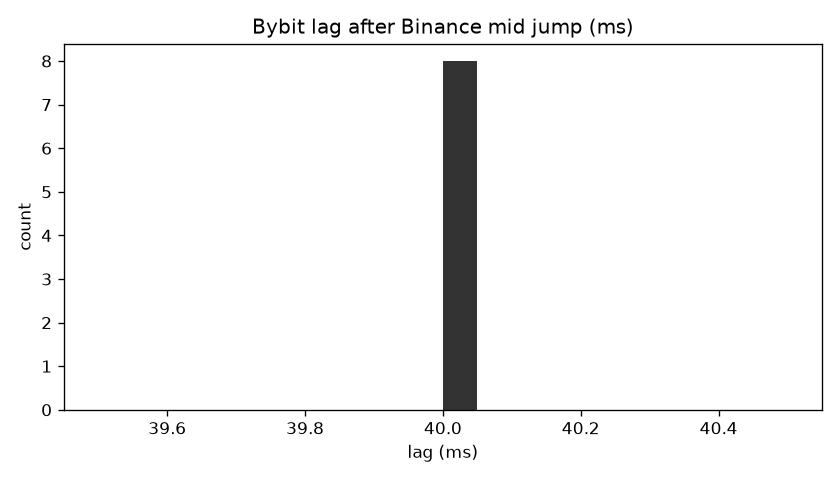
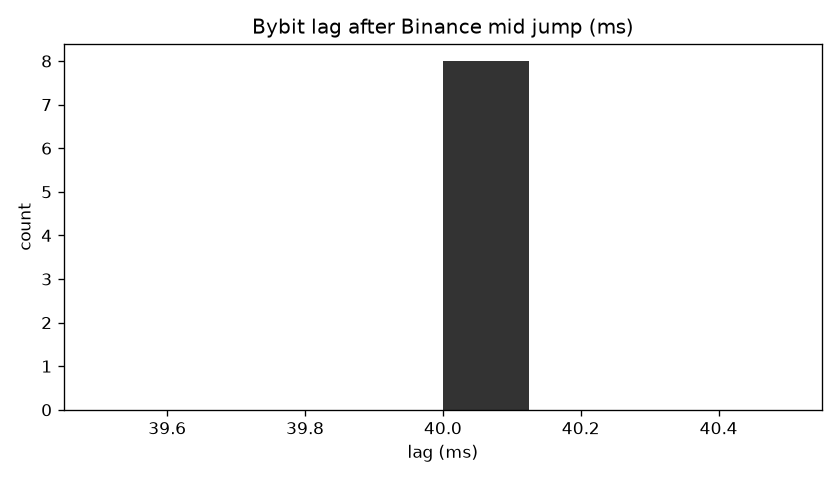
feat: drive research and execution from YAML and print fee-aware PnL
CLIs take --path so a live tape can reuse the same code as the fixture. Hedge fills use bid/ask, not mid.

Changed region(s): [[0.5571, 0.125, 0.65, 0.875]]

diff --git a/cel/execution/algo.py b/cel/execution/algo.py
@@ -41,6 +41,7 @@ class AlgoConfig:
     max_imbalance: float = 0.01
     hedge_timeout_ms: int = 200
     taker_fee_bps: float = 5.0
+    hedge_fee_bps: float = 5.0
 
 
 @dataclass
@@ -72,7 +73,7 @@ def run_algo(events: list[Event], cfg: AlgoConfig) -> AlgoState:
     for tick in lead[1:]:
         move = tick.mid - prev.mid
         prev = tick
-        _maybe_timeout(state, follow, tick.exchange_ts, cfg)
+        _maybe_timeout(state, lead, follow, tick.exchange_ts, cfg)
         if state.killed:
             break
         if abs(move) < cfg.signal_move or state.pending is not None:
@@ -85,11 +86,12 @@ def run_algo(events: list[Event], cfg: AlgoConfig) -> AlgoState:
         side = Side.BUY if buy_follower else Side.SELL
         px = book.ask if buy_follower else book.bid
         _fill(state, book.exchange_ts, "bybit", side, px, cfg.size, "initiate")
-        state.pending = Leg("binance", Side.SELL if buy_follower else Side.BUY, tick.mid, cfg.size, tick.exchange_ts)
+        hedge_side = Side.SELL if buy_follower else Side.BUY
+        state.pending = Leg("binance", hedge_side, _aggressive_px(tick, hedge_side), cfg.size, tick.exchange_ts)
         state.pending_since = book.exchange_ts
         while f_i < len(follow) and follow[f_i].exchange_ts < decision_ts:
             f_i += 1
-    _maybe_timeout(state, follow, lead[-1].exchange_ts + cfg.hedge_timeout_ms + 1, cfg)
+    _maybe_timeout(state, lead, follow, lead[-1].exchange_ts + cfg.hedge_timeout_ms + 1, cfg)
     return state
 
 
@@ -97,6 +99,10 @@ def _fill(state: AlgoState, ts: int, venue: str, side: Side, px: float, sz: floa
     signed = sz if side is Side.BUY else -sz
     state.inventory[venue] = state.inventory.get(venue, 0.0) + signed
     state.fills.append(Fill(ts, venue, side, px, sz, reason))
+
+
+def _aggressive_px(book: MidTick, side: Side) -> float:
+    return book.ask if side is Side.BUY else book.bid
 
 
 def _book_at(series: list[MidTick], ts: int) -> MidTick | None:
@@ -108,31 +114,53 @@ def _book_at(series: list[MidTick], ts: int) -> MidTick | None:
     return last
 
 
-def _maybe_timeout(state: AlgoState, follow: list[MidTick], now: int, cfg: AlgoConfig) -> None:
+def _maybe_timeout(
+    state: AlgoState,
+    lead: list[MidTick],
+    follow: list[MidTick],
+    now: int,
+    cfg: AlgoConfig,
+) -> None:
     if state.pending is None or state.pending_since is None:
         return
     if now - state.pending_since < cfg.hedge_timeout_ms:
-        # Hedge on Binance using last known leader mid as a fill proxy (tape has no
-        # Binance trades required). This is a research fill, not a queue model.
-        if now >= state.pending_since:
-            _fill(
-                state,
-                now,
-                state.pending.venue,
-                state.pending.side,
-                state.pending.px,
-                state.pending.sz,
-                "hedge",
-            )
-            state.pending = None
-            state.pending_since = None
+        hedge_book = _book_at(lead, now)
+        px = _aggressive_px(hedge_book, state.pending.side) if hedge_book is not None else state.pending.px
+        _fill(
+            state,
+            now,
+            state.pending.venue,
+            state.pending.side,
+            px,
+            state.pending.sz,
+            "hedge",
+        )
+        state.pending = None
+        state.pending_since = None
         return
     book = _book_at(follow, now)
     if book is not None and abs(state.inventory.get("bybit", 0.0)) > 1e-12:
-        # flatten leftover on follower
         leftover = state.inventory["bybit"]
         side = Side.SELL if leftover > 0 else Side.BUY
         px = book.bid if leftover > 0 else book.ask
         _fill(state, book.exchange_ts, "bybit", side, px, abs(leftover), "timeout_flatten")
     state.pending = None
     state.pending_since = None
+
+
+def mark_to_market_usdt(state: AlgoState, mids_by_venue: dict[str, float], cfg: AlgoConfig) -> float:
+    """Cash from fills (after fees) plus leftover inventory at last mids."""
+    cash = 0.0
+    for fill in state.fills:
+        notional = fill.px * fill.sz
+        bps = cfg.taker_fee_bps if fill.venue == "bybit" else cfg.hedge_fee_bps
+        fee = notional * bps / 10_000.0
+        if fill.side is Side.BUY:
+            cash -= notional + fee
+        else:
+            cash += notional - fee
+    for venue, qty in state.inventory.items():
+        mid = mids_by_venue.get(venue)
+        if mid is not None:
+            cash += qty * mid
+    return cash

diff --git a/cel/settings.py b/cel/settings.py
@@ -1,0 +1,67 @@
+"""Load configs/btc_binance_bybit.yaml so knobs are real, not comments."""
+
+from __future__ import annotations
+
+from dataclasses import dataclass
+from pathlib import Path
+
+import yaml
+
+from cel.execution.algo import AlgoConfig
+from cel.risk.limits import RiskLimits
+
+DEFAULT_CONFIG = Path("configs/btc_binance_bybit.yaml")
+
+
+@dataclass(frozen=True)
+class LabConfig:
+    delay_ms: int
+    signal_ticks: int
+    tick_size: float
+    size_btc: float
+    max_imbalance_btc: float
+    hedge_timeout_ms: int
+    binance_taker_bps: float
+    bybit_taker_bps: float
+    max_position_btc: float
+    stale_feed_ms: int
+
+    @property
+    def signal_move(self) -> float:
+        return self.signal_ticks * self.tick_size
+
+    def algo(self) -> AlgoConfig:
+        return AlgoConfig(
+            delay_ms=self.delay_ms,
+            signal_move=self.signal_move,
+            size=self.size_btc,
+            max_imbalance=self.max_imbalance_btc,
+            hedge_timeout_ms=self.hedge_timeout_ms,
+            taker_fee_bps=self.bybit_taker_bps,
+            hedge_fee_bps=self.binance_taker_bps,
+        )
+
+    def risk(self) -> RiskLimits:
+        return RiskLimits(
+            max_position=self.max_position_btc,
+            max_abs_imbalance=self.max_imbalance_btc,
+            stale_feed_ms=self.stale_feed_ms,
+        )
+
+
+def load_config(path: Path = DEFAULT_CONFIG) -> LabConfig:
+    raw = yaml.safe_load(path.read_text(encoding="utf-8")) or {}
+    fees = raw.get("fees_bps") or {}
+    risk = raw.get("risk") or {}
+    return LabConfig(
+        delay_ms=int(raw.get("delay_ms", 50)),
+        signal_ticks=int(raw.get("signal_ticks", 2)),
+        tick_size=float(raw.get("tick_size", 0.1)),
+        size_btc=float(raw.get("size_btc", 0.001)),
+        max_imbalance_btc=float(raw.get("max_imbalance_btc", 0.01)),
+        hedge_timeout_ms=int(raw.get("hedge_timeout_ms", 200)),
+        binance_taker_bps=float(fees.get("binance_taker", 5.0)),
+        bybit_taker_bps=float(fees.get("bybit_taker", 5.5)),
+        max_position_btc=float(risk.get("max_position_btc", 0.05)),
+        stale_feed_ms=int(risk.get("stale_feed_ms", 2000)),
+    )

diff --git a/cel/research/__main__.py b/cel/research/__main__.py
@@ -1,30 +1,48 @@
-"""python -m cel.research"""
+"""python -m cel.research [--path tape.jsonl]"""
 
 from __future__ import annotations
 
+import argparse
 from pathlib import Path
 
 from cel.ingest.replay import replay_list
 from cel.research.lead_lag import lead_lag
 from cel.research.markout import delayed_taker_markouts
 from cel.research.plots import plot_lead_lag, plot_markouts
+from cel.settings import DEFAULT_CONFIG, load_config
 
 FIXTURE = Path("data/fixtures/sample.jsonl")
 
 
-def main() -> int:
-    events, report = replay_list(FIXTURE)
-    lags = lead_lag(events)
-    markouts: list = []
-    for delay in (0, 20, 50, 200):
-        markouts.extend(delayed_taker_markouts(events, delay_ms=delay))
+def main(argv: list[str] | None = None) -> int:
+    parser = argparse.ArgumentParser(prog="python -m cel.research")
+    parser.add_argument("--path", type=Path, default=FIXTURE)
+    parser.add_argument("--config", type=Path, default=DEFAULT_CONFIG)
+    parser.add_argument("--delays", default="0,20,50,200")
+    args = parser.parse_args(argv)
+
+    cfg = load_config(args.config)
+    delays = tuple(int(x) for x in args.delays.split(",") if x.strip())
+    events, report = replay_list(args.path)
+    lags = lead_lag(events, min_move=cfg.signal_move)
+    markouts = []
+    for delay in delays:
+        markouts.extend(
+            delayed_taker_markouts(
+                events,
+                delay_ms=delay,
+                min_move=cfg.signal_move,
+                taker_fee_bps=cfg.bybit_taker_bps,
+            )
+        )
     plot_lead_lag(lags, Path("reports/lead_lag.png"))
     plot_markouts(markouts, Path("reports/markout_vs_delay.png"))
     mean_0 = _mean(markouts, 0, 1_000)
     mean_50 = _mean(markouts, 50, 1_000)
+    print(f"path={args.path} venues={report.n_by_venue}")
     print(f"replay events={report.n_events} hard_gaps={report.n_hard_gaps}")
     print(f"lead_lag n={len(lags)} median_ms={_median([s.lag_ms for s in lags])}")
-    print(f"taker_pnl_bps delay0={mean_0:.2f} delay50={mean_50:.2f} (1s horizon)")
+    print(f"taker_pnl_bps delay0={mean_0:.2f} delay50={mean_50:.2f} (1s horizon, fees on)")
     return 0
 
 

diff --git a/cel/execution/__main__.py b/cel/execution/__main__.py
@@ -1,22 +1,40 @@
-"""python -m cel.execution"""
+"""python -m cel.execution [--path tape.jsonl]"""
 
 from __future__ import annotations
 
+import argparse
 from pathlib import Path
 
-from cel.execution.algo import AlgoConfig, run_algo
+from cel.execution.algo import mark_to_market_usdt, run_algo
 from cel.ingest.replay import replay_list
-from cel.risk.limits import RiskLimits, check
+from cel.research.mids import mids
+from cel.risk.limits import check
+from cel.settings import DEFAULT_CONFIG, load_config
+
+FIXTURE = Path("data/fixtures/sample.jsonl")
 
 
-def main() -> int:
-    events, _ = replay_list(Path("data/fixtures/sample.jsonl"))
-    state = run_algo(events, AlgoConfig())
+def main(argv: list[str] | None = None) -> int:
+    parser = argparse.ArgumentParser(prog="python -m cel.execution")
+    parser.add_argument("--path", type=Path, default=FIXTURE)
+    parser.add_argument("--config", type=Path, default=DEFAULT_CONFIG)
+    args = parser.parse_args(argv)
+
+    cfg = load_config(args.config)
+    events, report = replay_list(args.path)
+    state = run_algo(events, cfg.algo())
     last = events[-1].exchange_ts if events else 0
-    check(state, last_event_ts=last, now_ts=last, limits=RiskLimits())
+    check(state, last_event_ts=last, now_ts=last, limits=cfg.risk())
+    last_mids = {}
+    for venue in ("binance", "bybit"):
+        series = mids(events, venue)
+        if series:
+            last_mids[venue] = series[-1].mid
+    pnl = mark_to_market_usdt(state, last_mids, cfg.algo())
+    print(f"path={args.path} venues={report.n_by_venue}")
     print(
         f"fills={len(state.fills)} imbalance={state.imbalance:.6f} "
-        f"inv={state.inventory} killed={state.killed}"
+        f"inv={state.inventory} killed={state.killed} pnl_usdt={pnl:.4f}"
     )
     return 0
 

diff --git a/cel/research/plots.py b/cel/research/plots.py
@@ -4,6 +4,9 @@ from __future__ import annotations
 
 from pathlib import Path
 
+import matplotlib
+
+matplotlib.use("Agg")
 import matplotlib.pyplot as plt
 
 from cel.research.lead_lag import LagSample
@@ -13,7 +16,11 @@ from cel.research.markout import Markout
 def plot_lead_lag(samples: list[LagSample], dest: Path) -> None:
     dest.parent.mkdir(parents=True, exist_ok=True)
     fig, ax = plt.subplots(figsize=(7, 4))
-    ax.hist([s.lag_ms for s in samples], bins=20, color="#333333")
+    values = [s.lag_ms for s in samples]
+    if values:
+        ax.hist(values, bins=min(20, max(5, len(values))), color="#333333")
+    else:
+        ax.text(0.5, 0.5, "no leader jumps in this tape", ha="center", va="center", transform=ax.transAxes)
     ax.set_title("Bybit lag after Binance mid jump (ms)")
     ax.set_xlabel("lag (ms)")
     ax.set_ylabel("count")
@@ -31,7 +38,10 @@ def plot_markouts(rows: list[Markout], dest: Path) -> None:
     for delay in delays:
         chunk = [r.pnl_bps for r in rows if r.delay_ms == delay and r.horizon_ms == horizon]
         means.append(sum(chunk) / len(chunk) if chunk else 0.0)
-    ax.plot(delays, means, marker="o", color="#333333")
+    if delays:
+        ax.plot(delays, means, marker="o", color="#333333")
+    else:
+        ax.text(0.5, 0.5, "no markouts in this tape", ha="center", va="center", transform=ax.transAxes)
     ax.axhline(0.0, color="#999999", linewidth=1)
     ax.set_title("Delayed Bybit taker mean PnL vs delay (1s markout, bps)")
     ax.set_xlabel("delay (ms)")

diff --git a/tests/test_algo.py b/tests/test_algo.py
@@ -1,6 +1,6 @@
 import unittest
 
-from cel.execution.algo import AlgoConfig, run_algo
+from cel.execution.algo import AlgoConfig, mark_to_market_usdt, run_algo
 from cel.ingest.fixture import build_sample_events
 from cel.risk.limits import RiskLimits, check
 
@@ -10,6 +10,8 @@ class AlgoTests(unittest.TestCase):
         state = run_algo(build_sample_events(), AlgoConfig(delay_ms=0, hedge_timeout_ms=200))
         self.assertTrue(state.fills)
         self.assertLess(state.imbalance, 0.01)
+        pnl = mark_to_market_usdt(state, {"binance": 60008.0, "bybit": 60008.0}, AlgoConfig())
+        self.assertIsInstance(pnl, float)
 
     def test_stale_feed_kills(self) -> None:
         state = run_algo(build_sample_events(), AlgoConfig())

diff --git a/cel/execution/__init__.py b/cel/execution/__init__.py
@@ -1,5 +1,5 @@
 """Multi-leg initiate / hedge / timeout. Named 'execution' so it does not shadow Python's exec."""
 
-from cel.execution.algo import AlgoConfig, run_algo
+from cel.execution.algo import AlgoConfig, mark_to_market_usdt, run_algo
 
-__all__ = ["AlgoConfig", "run_algo"]
+__all__ = ["AlgoConfig", "mark_to_market_usdt", "run_algo"]

diff --git a/tests/test_config.py b/tests/test_config.py
@@ -1,0 +1,10 @@
+import unittest
+
+from cel.settings import load_config
+
+
+class ConfigTests(unittest.TestCase):
+    def test_repo_yaml_loads(self) -> None:
+        cfg = load_config()
+        self.assertGreater(cfg.signal_move, 0)
+        self.assertEqual(cfg.algo().delay_ms, cfg.delay_ms)

diff --git a/README.md b/README.md
@@ -62,6 +62,9 @@ python -m cel.ingest record --seconds 30 --out data/raw/btc.jsonl
 python -m cel.ingest replay data/raw/btc.jsonl
 python -m cel.research
 python -m cel.execution
+# same on a live tape
+python -m cel.research --path data/raw/btc.jsonl
+python -m cel.execution --path data/raw/btc.jsonl
 ```
 
 Plots land in `reports/`. `RESEARCH.md` is the log of what survived fees and delay.
